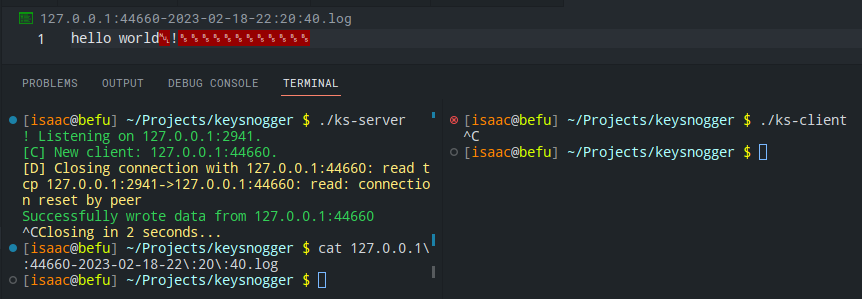
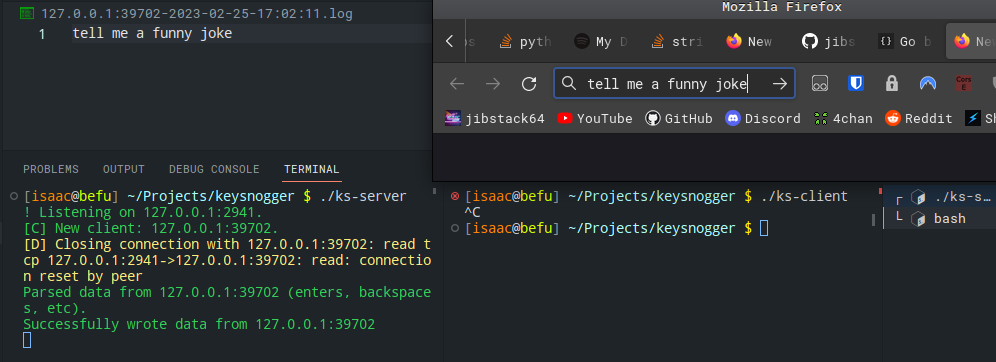
no more missing keys! + autosave

diff --git a/server/server.go b/server/server.go
@@ -38,6 +38,7 @@ var (
 func track(conn net.Conn) {
 	sucPr.Printf("[C] New client: %s.\n", conn.RemoteAddr().String())
 	log := "" // dump
+	connected := true
 	go func() {
 		for maintain {
 			data := make([]byte, BUFFER)
@@ -50,8 +51,9 @@ func track(conn net.Conn) {
 			}
 			conn.Write([]byte("Received :)"))
 		}
+		connected = false
 	}()
-	for maintain {
+	for maintain && connected {
 		time.Sleep(time.Second)
 	}
 	conn.Close()
